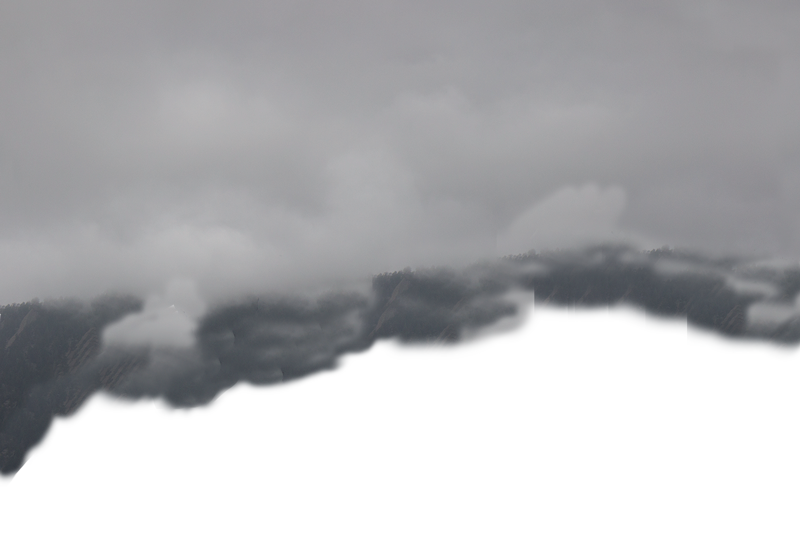
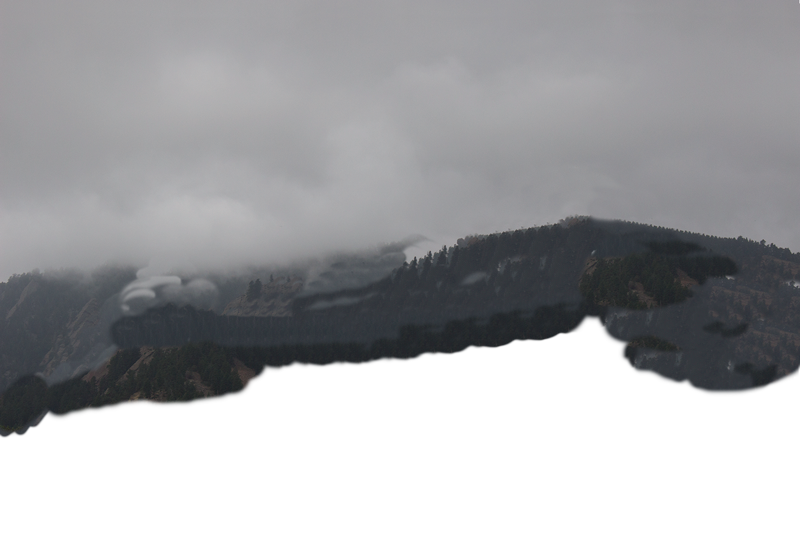
about to add everything else

Changed region(s): [[0.0, 0.3895, 1.0, 0.8989]]

diff --git a/scss/_base.scss b/scss/_base.scss
@@ -120,23 +120,30 @@ p {
 
 .base1 {
   // -webkit-transform: translateZ(-100px);
-  transform: translateZ(-2px) scale(3);
-  // z-index: 14;
+  transform: translateZ(-0.3px) scale(1.3);
+  z-index: 14;
 
 }
 
 .base2 {
   // -webkit-transform: translateZ(-1px) scale(2);
   // transform: translateZ(0) scale(1);
-  transform: translateZ(-3px) scale(4);
-  // z-index: 15;
+
+  transform: translateZ(-0.5px) scale(1.5);
+  z-index: 15;
+}
+
+.base3 {
+  // -webkit-transform: translateZ(-100px);
+  transform: translateZ(-0.3px) scale(1.3);
+  z-index: 14;
+
 }
 
 .base4 {
-  // -webkit-transform: translateZ(-100px);
-  transform: translateZ(0) scale(1);
-  z-index: 30;
-  
+  // -webkit-transform: translateZ(-1px) scale(2);
+  transform: translateZ(-0.5px) scale(1.5);
+  z-index: 15;
 }
 
 
@@ -255,7 +262,7 @@ p {
 	z-index: 8
 }
 
-#group4 .base4 {
+#group4 .base {
   background: $lightgray;
   background-size:cover;
 }
@@ -267,13 +274,13 @@ p {
 #group5 {
 	z-index: 7;
 }
-#group5 .base1 { 
+#group5 .base3 { 
 	background: url('../img/face1.png') 50% 50% no-repeat;
 	background-size: cover;
 	
 }
 
-#group5 .base2 { 
+#group5 .base4 { 
 	background: url('../img/face2.png') 50% 50% no-repeat;
 	background-size: cover;
 	

diff --git a/css/main.css b/css/main.css
@@ -590,16 +590,23 @@ p {
 }
 
 .base1 {
-  transform: translateZ(-2px) scale(3);
+  transform: translateZ(-0.3px) scale(1.3);
+  z-index: 14;
 }
 
 .base2 {
-  transform: translateZ(-3px) scale(4);
+  transform: translateZ(-0.5px) scale(1.5);
+  z-index: 15;
+}
+
+.base3 {
+  transform: translateZ(-0.3px) scale(1.3);
+  z-index: 14;
 }
 
 .base4 {
-  transform: translateZ(0) scale(1);
-  z-index: 30;
+  transform: translateZ(-0.5px) scale(1.5);
+  z-index: 15;
 }
 
 .breck1 {
@@ -658,7 +665,7 @@ p {
 
 /* Group 3 - BRECK */
 #group3 {
-  z-index: 10;
+  z-index: 9;
 }
 
 #group3 .breck1 {
@@ -696,22 +703,22 @@ p {
   z-index: 8;
 }
 
-#group4 .base4 {
+#group4 .base {
   background: #819090;
   background-size: cover;
 }
 
 /* Group 5 */
 #group5 {
-  z-index: 9;
+  z-index: 7;
 }
 
-#group5 .base1 {
+#group5 .base3 {
   background: url("../img/face1.png") 50% 50% no-repeat;
   background-size: cover;
 }
 
-#group5 .base2 {
+#group5 .base4 {
   background: url("../img/face2.png") 50% 50% no-repeat;
   background-size: cover;
 }

diff --git a/index.html b/index.html
@@ -35,14 +35,14 @@
                     <div class="parallax-layer breck6"></div>
             </section>
             <section id="group4" class="group">
-                <div class="parallax-layer base4"></div>
+                <div class="parallax-layer base"></div>
                 <header>
                     <h1 class="title">FILLER</h1>
                 </header>
             </section>
             <section id="group5" class="group">
-                <div class="parallax-layer base1"></div>
-                <div class="parallax-layer base2"></div>
+                <div class="parallax-layer base3"></div>
+                <div class="parallax-layer base4"></div>
             </section>
         </main>
 
